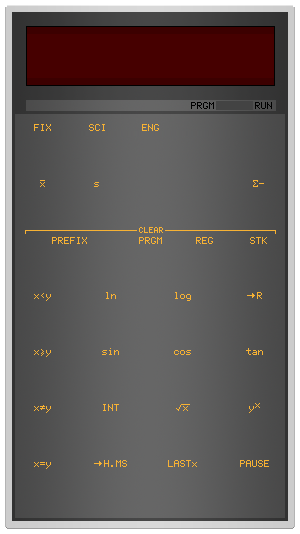
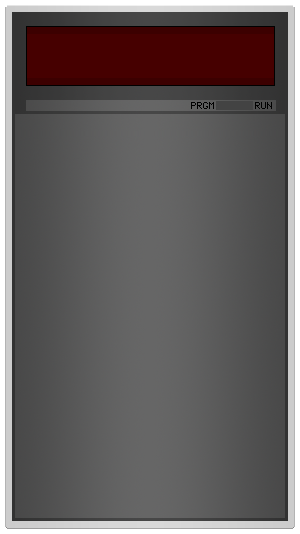
Added support for keyboard overlay separate from background.

diff --git a/src/csim.c b/src/csim.c
@@ -700,8 +700,6 @@ int main (int argc, char *argv[])
 
   GtkWidget *vbox;
 
-  GtkWidget *image;
-
   GdkBitmap *image_mask_bitmap = NULL;
 
   progname = newstr (argv [0]);
@@ -879,8 +877,18 @@ int main (int argc, char *argv[])
 
   if (csim->background_pixbuf != NULL)
     {
-      image = gtk_image_new_from_pixbuf (csim->background_pixbuf);
-      gtk_fixed_put (GTK_FIXED (csim->fixed), image, 0, 0);
+      csim->background_image = gtk_image_new_from_pixbuf (csim->background_pixbuf);
+      gtk_fixed_put (GTK_FIXED (csim->fixed), csim->background_image, 0, 0);
+    }
+
+  if (csim->kml->default_overlay_image_fn)
+    csim->overlay_pixbuf = load_pixbuf (csim,
+					csim->kml->default_overlay_image_fn);
+
+  if (csim->overlay_pixbuf != NULL)
+    {
+      csim->overlay_image = gtk_image_new_from_pixbuf (csim->overlay_pixbuf);
+      gtk_fixed_put (GTK_FIXED (csim->fixed), csim->overlay_image, 0, 0);
     }
 
   // Have to show everything here, or gui_display_init() can't construct the

diff --git a/src/csim.h b/src/csim.h
@@ -36,6 +36,9 @@ typedef struct
   GtkWidget *main_window;
   GdkPixbuf *file_pixbuf;        // entire pixbuf loaded from file
   GdkPixbuf *background_pixbuf;  // window background (subset of file_pixbuf)
+  GtkWidget *background_image;
+  GdkPixbuf *overlay_pixbuf;
+  GtkWidget *overlay_image;
   GtkWidget *event_box;
   GtkWidget *fixed;
   GtkItemFactory *main_menu_item_factory;

diff --git a/src/kml.h b/src/kml.h
@@ -146,6 +146,7 @@ typedef struct
   char *patch_fn;
   char *image_fn;
   char *image_cr;
+  char *default_overlay_image_fn;
   int has_transparency;
   int transparency_threshold;
   color_t *global_color [KML_MAX_GLOBAL_COLOR];
